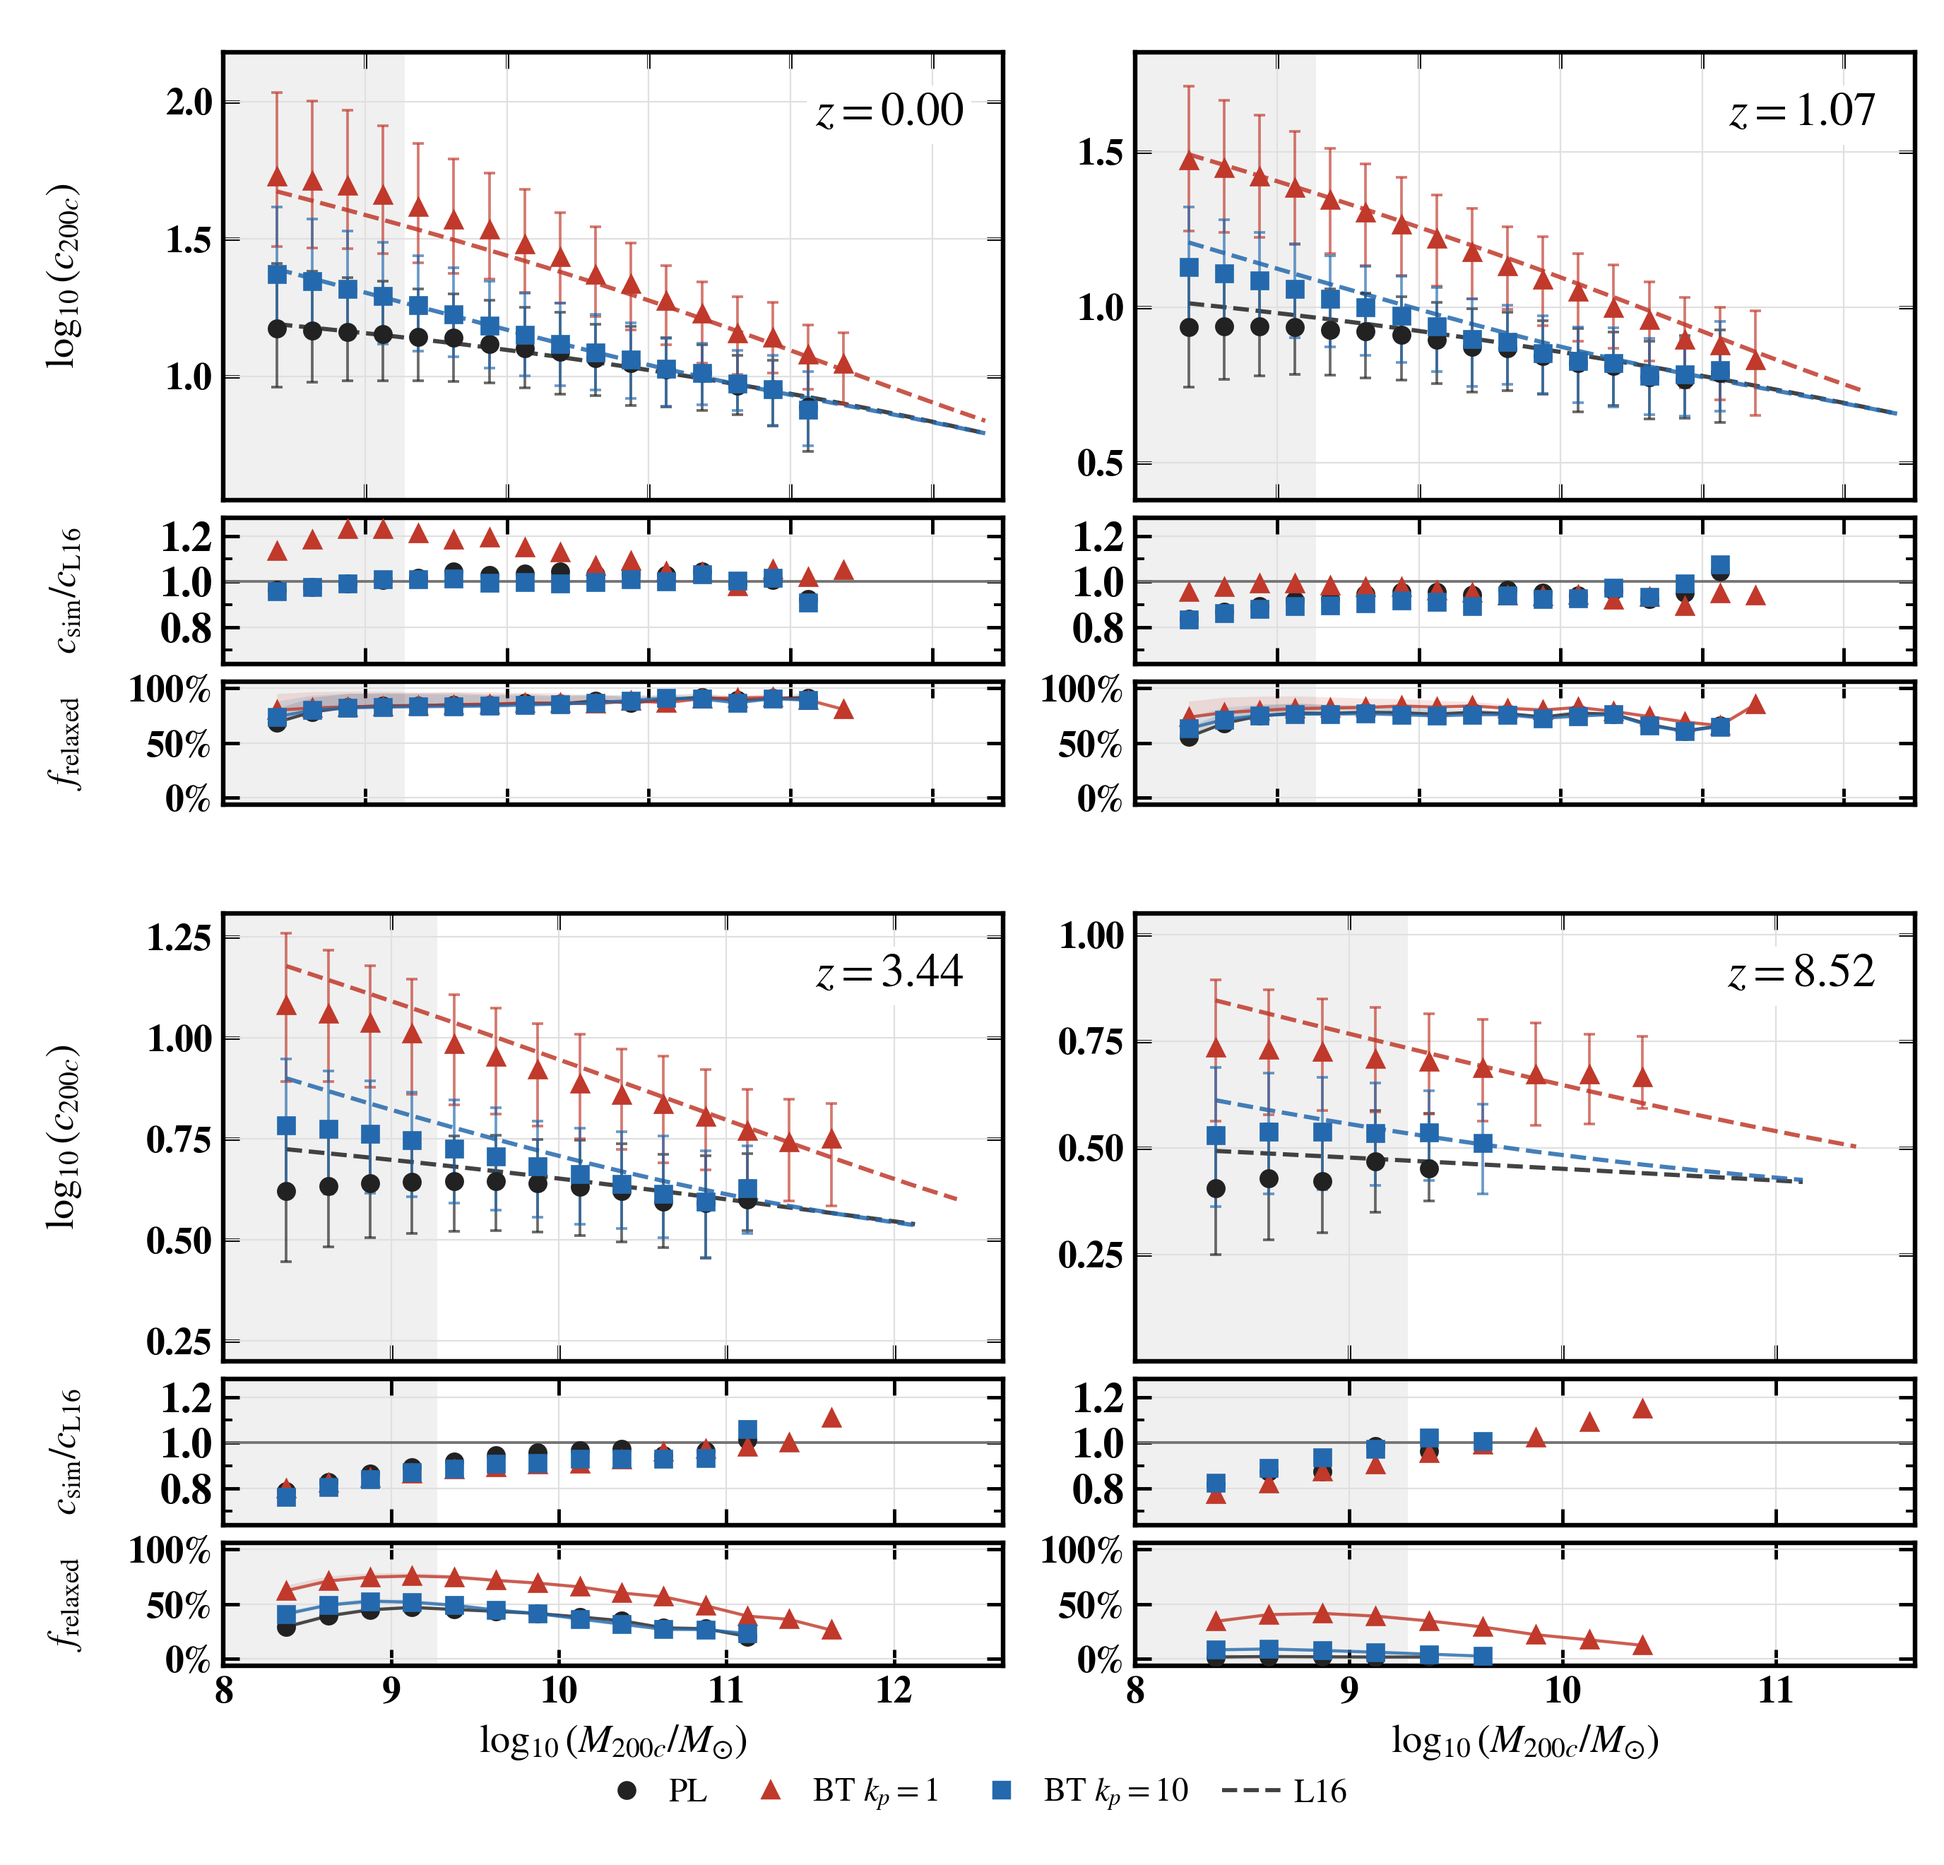
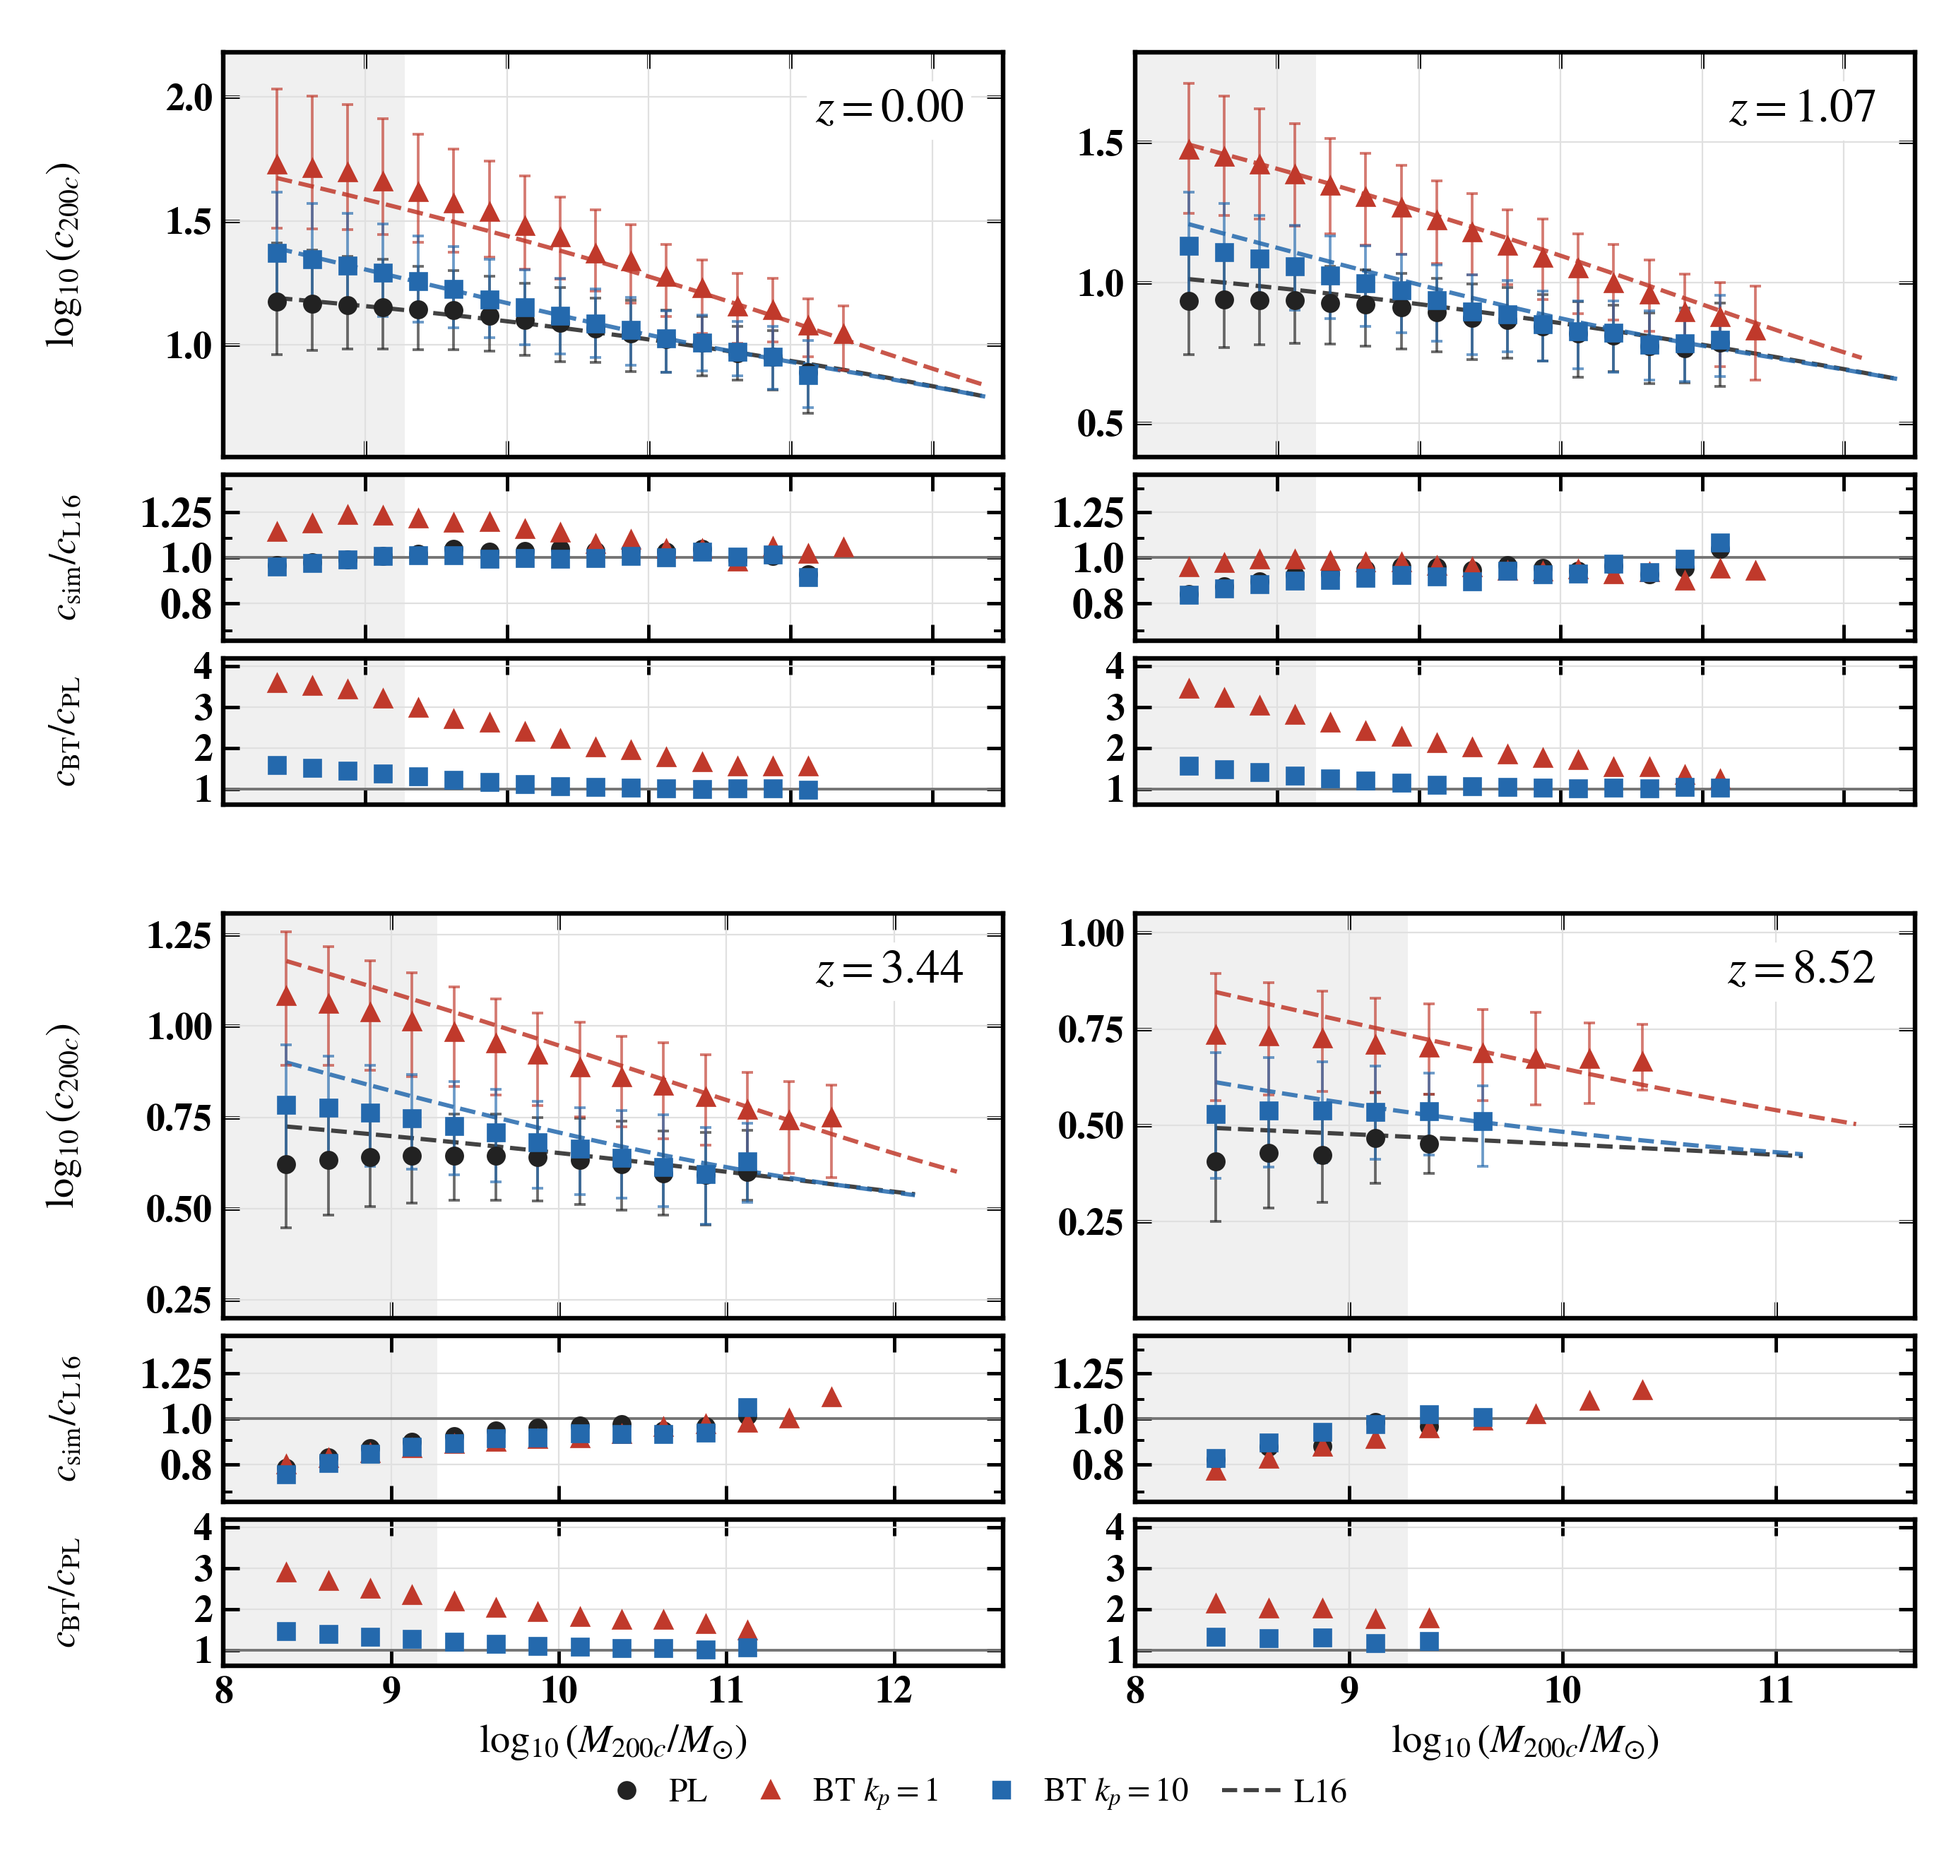
Show BT-to-PL concentration ratios in concentration figures

diff --git a/main.tex b/main.tex
@@ -437,7 +437,7 @@ At \(z=0\), the median concentration in the \(10^9\)--\(10^{9.5}\,M_\odot\) mass
 The stronger concentration enhancement in \BTKPone{} follows the same ordering as the HMF and assembly-history changes. Its lower pivot enhances a broader range of resolved modes than in \BTKPten{}. Halo concentration is linked to formation history and responds to changes in the linear matter spectrum \citep{Ludlow2016WDMConcentration,Brown2020HaloPPS}.
 
 
-\change{The lower rows in Fig.~\ref{fig:concentration_comparison_d19} show \(c_{\rm sim}/c_{\rm D19}\) and the fraction of halos satisfying the L16 relaxation criteria.} \change{We compare the prescriptions in the 115 bins whose 0.25-dex mass intervals lie wholly above the 1000-particle scale, \(M_{200c}=1.89\times10^9\,M_\odot\), and contain at least 20 halos each. Across these bins, the median absolute fractional difference \(\lvert c_{\rm sim}/c_{\rm theory}-1\rvert\) is \(5.02\%\) for D19, \(5.96\%\) for the I21 all-halo fit, and \(11.24\%\) for L16. The largest D19 difference is \(16.34\%\) for \BTKPten{} at \(z=1.07\) and \(\log_{10}(M_{200c}/M_\odot)=12.375\). We adopt D19 as the primary reference because it has the smallest median difference across the full sample.}
+\change{The middle rows in Fig.~\ref{fig:concentration_comparison_d19} show \(c_{\rm sim}/c_{\rm D19}\) on a logarithmic scale. The bottom rows show \(c_{\rm BT}/c_{\rm PL}\), the ratio of the BT and PL median concentrations in each common mass bin.} \change{We compare the prescriptions in the 115 bins whose 0.25-dex mass intervals lie wholly above the 1000-particle scale, \(M_{200c}=1.89\times10^9\,M_\odot\), and contain at least 20 halos each. Across these bins, the median absolute fractional difference \(\lvert c_{\rm sim}/c_{\rm theory}-1\rvert\) is \(5.02\%\) for D19, \(5.96\%\) for the I21 all-halo fit, and \(11.24\%\) for L16. The largest D19 difference is \(16.34\%\) for \BTKPten{} at \(z=1.07\) and \(\log_{10}(M_{200c}/M_\odot)=12.375\). We adopt D19 as the primary reference because it has the smallest median difference across the full sample.}
 
 \change{For the full halo sample, the prescription with the smallest median difference varies with redshift. L16 gives the smallest median difference at \(z=0\) (\(3.47\%\)), and D19 gives the smallest at \(z=1.07\) (\(3.89\%\)). The I21 all-halo fit gives the smallest median difference at \(z=3.44\) (\(4.77\%\)) and \(z=8.52\) (\(2.91\%\)).}
 
@@ -450,7 +450,7 @@ A separate study in preparation (Wu, Chan, Lange, \& Huang) examines the Diemer 
 \begin{figure*}[t]
     \centering
     \includegraphics[width=\textwidth]{concentration-qc-d19-relaxation.png}
-    \caption{\change{Concentration--mass relation for the full halo sample in PL, \BTKPone{}, and \BTKPten{}, compared with the D19 prediction for each input linear matter power spectrum. The upper rows show the median \(\log_{10}c_{200c}\) and its 16th--84th percentile halo-to-halo range. The middle rows show \(c_{\rm sim}/c_{\rm D19}\). The bottom rows give the fraction of halos that satisfy the L16 relaxation criteria described in Appendix~\ref{app:concentration_alternative_models}. The bands span the range obtained by counting all unclassified halos as either unrelaxed or relaxed. Plotted bins contain at least 20 halos with \(N_{\rm DM}\ge100\). Gray shading marks masses below the 1000-particle scale.}}
+    \caption{\change{Concentration--mass relation for the full halo sample in PL, \BTKPone{}, and \BTKPten{}, compared with the D19 prediction for each input linear matter power spectrum. The upper rows show the median \(\log_{10}c_{200c}\) and its 16th--84th percentile halo-to-halo range. The middle rows show \(c_{\rm sim}/c_{\rm D19}\) on a logarithmic scale. The bottom rows show the BT-to-PL median concentration ratio \(c_{\rm BT}/c_{\rm PL}\) in common mass bins. Each BT-to-PL ratio requires at least 20 halos in both samples. Plotted bins contain at least 20 halos with \(N_{\rm DM}\ge100\). Gray shading marks masses below the 1000-particle scale.}}
     \label{fig:concentration_comparison_d19}
 \end{figure*}
 
@@ -633,14 +633,14 @@ The \(256^3\) same-volume run and the \(50\,h^{-1}{\rm Mpc}\), \(512^3\) volume 
 \begin{figure*}[t]
     \centering
     \includegraphics[width=\textwidth]{concentration-qc-i21-relaxed-fit-relaxation.png}
-    \caption{\change{Concentration--mass relation for halos selected by the I21 relaxation criteria. Dashed curves show the I21 NFW-fit calibration for relaxed halos evaluated with each simulation's input linear matter power spectrum. The upper rows show the median \(\log_{10}c_{200c}\) and its 16th--84th percentile halo-to-halo range. The middle rows show the median concentration divided by the I21 relaxed prediction. The bottom rows show the fraction of the full halo sample that passes the I21 criteria, with bands accounting for unclassified halos as in Fig.~\ref{fig:concentration_comparison_d19}. Symbols show the 95 comparison bins with at least 20 halos passing both the minimum particle-count requirement and the I21 relaxation selection. Gray shading marks masses below the 1000-particle scale.}}
+    \caption{\change{Concentration--mass relation for halos selected by the I21 relaxation criteria. Dashed curves show the I21 NFW-fit calibration for relaxed halos evaluated with each simulation's input linear matter power spectrum. The upper rows show the median \(\log_{10}c_{200c}\) and its 16th--84th percentile halo-to-halo range. The middle rows show the median concentration divided by the I21 relaxed prediction on a logarithmic scale. The bottom rows show \(c_{\rm BT}/c_{\rm PL}\) for the I21-selected halos, with at least 20 selected halos in each sample. At \(z=8.52\), the comparison set has no PL bin meeting this requirement. Symbols show the 95 comparison bins with at least 20 halos passing both the minimum particle-count requirement and the I21 relaxation selection. Gray shading marks masses below the 1000-particle scale.}}
     \label{fig:concentration_comparison_i21_fit}
 \end{figure*}
 
 \begin{figure*}[t]
     \centering
     \includegraphics[width=\textwidth]{concentration-qc-l16-relaxation.png}
-    \caption{\change{Concentration--mass relation for halos selected by the L16 relaxation criteria. Dashed curves show the L16 prediction for each input linear matter power spectrum. The upper rows show the median \(\log_{10}c_{200c}\) and its 16th--84th percentile halo-to-halo range. The middle rows show \(c_{\rm sim}/c_{\rm L16}\). The bottom rows show the fraction of the full halo sample that passes the L16 criteria, with bands accounting for unclassified halos as in Fig.~\ref{fig:concentration_comparison_d19}. Symbols show bins with at least 20 halos passing both the minimum particle-count requirement and the L16 relaxation selection. Gray shading marks masses below the 1000-particle scale.}}
+    \caption{\change{Concentration--mass relation for halos selected by the L16 relaxation criteria. Dashed curves show the L16 prediction for each input linear matter power spectrum. The upper rows show the median \(\log_{10}c_{200c}\) and its 16th--84th percentile halo-to-halo range. The middle rows show \(c_{\rm sim}/c_{\rm L16}\) on a logarithmic scale. The bottom rows show \(c_{\rm BT}/c_{\rm PL}\) for the L16-selected halos, with at least 20 selected halos in each sample. Symbols show bins with at least 20 halos passing both the minimum particle-count requirement and the L16 relaxation selection. Gray shading marks masses below the 1000-particle scale.}}
     \label{fig:concentration_comparison_l16}
 \end{figure*}
 
